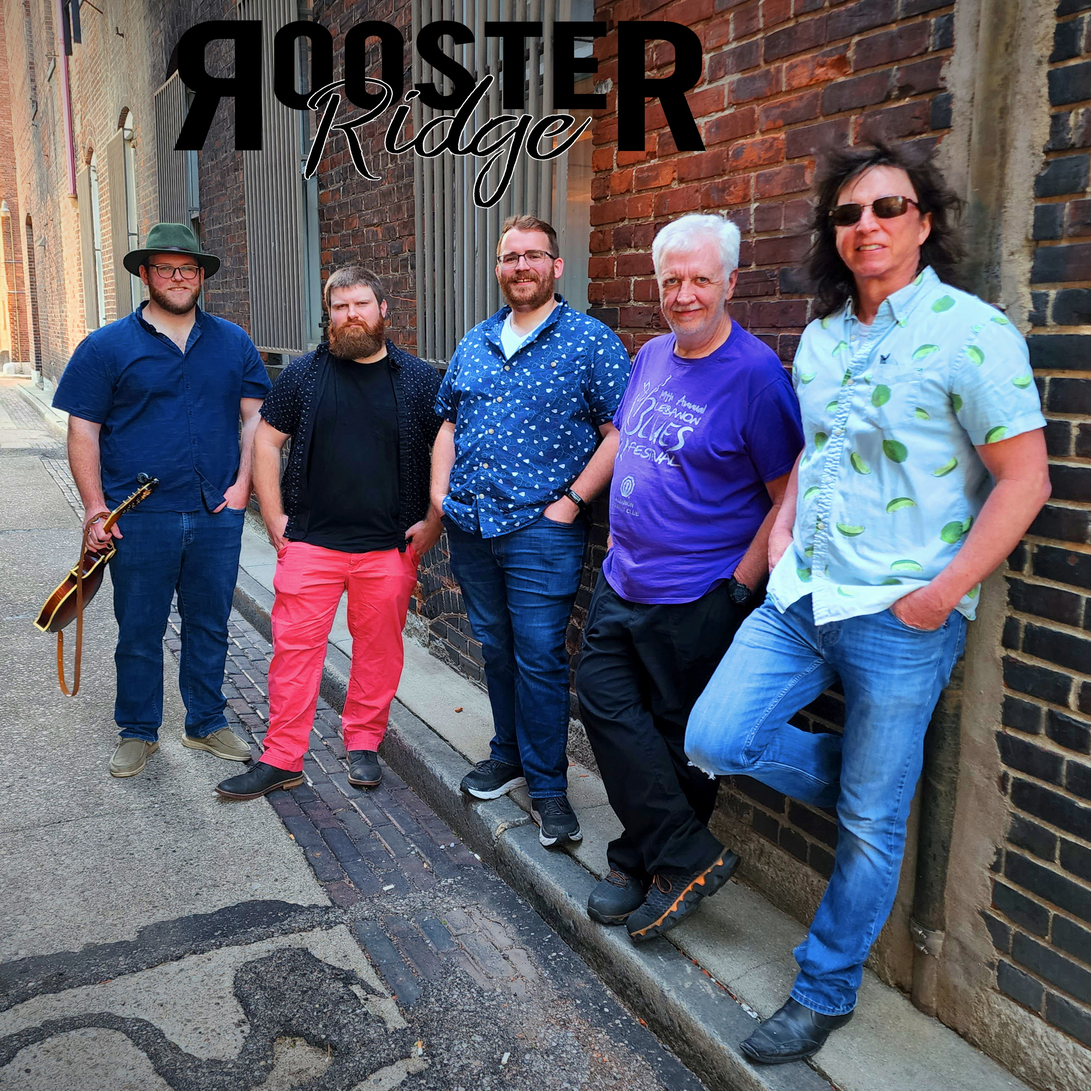
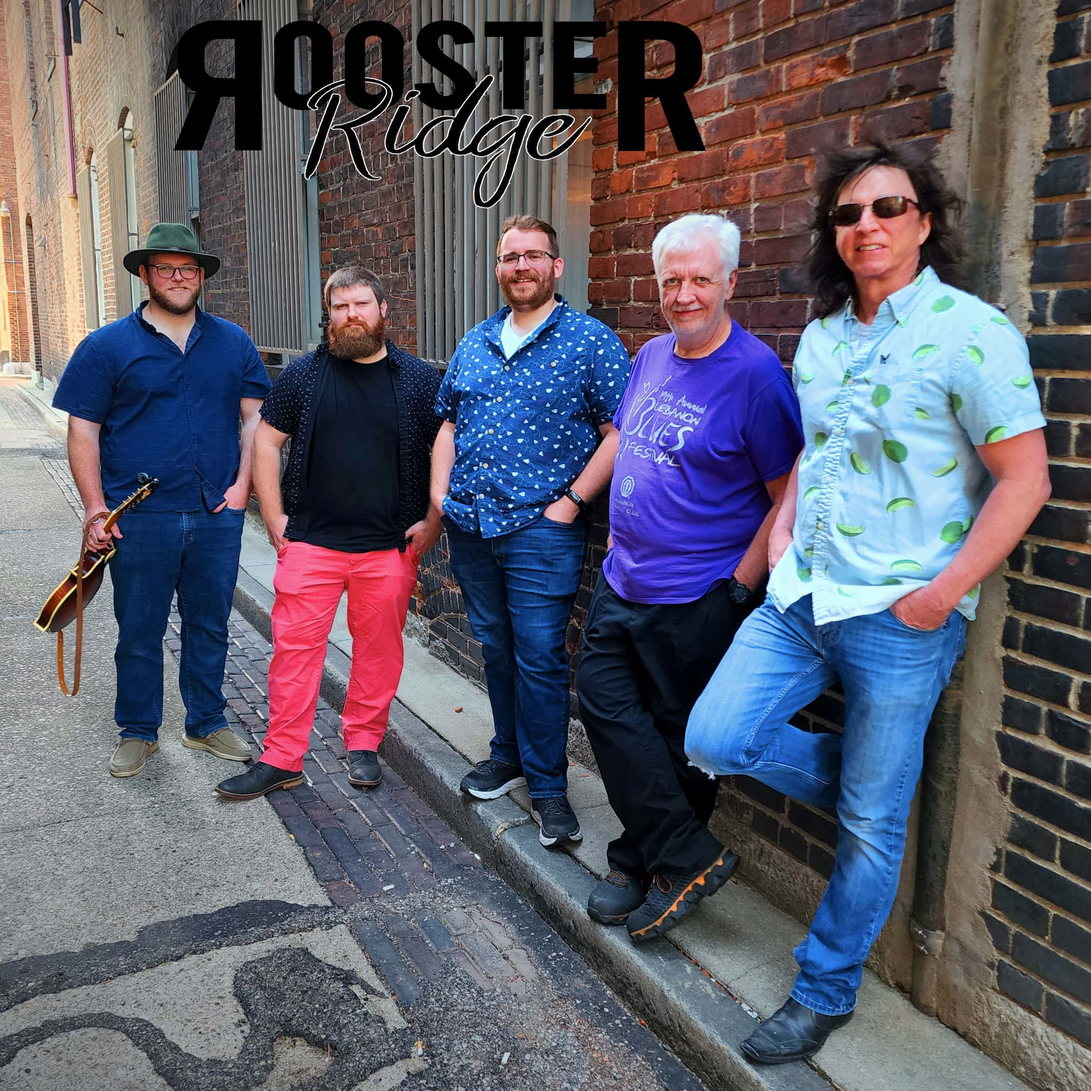
Added image compression and placeholder imgs

Changed region(s): [[0.4358, 0.1245, 0.4669, 0.1556]]

diff --git a/compress-images.js b/compress-images.js
@@ -1,20 +1,17 @@
 const compress_images = require("compress-images")
 
-const supported_input_folder = ["public/images"]
 
-
-supported_input_folder.forEach(dir => {
-    compress_images(`${dir}/**`, `${dir}/compressed/`, { compress_force: false, statistic: true, autoupdate: true }, false,
-        { jpg: { engine: "mozjpeg", command: ["-quality", "0"] } }, //https://github.com/mozilla/mozjpeg/blob/master/usage.txt
-        { png: { engine: "pngquant", command: ["--quality=0-10", "-o"] } },
-        { svg: { engine: "svgo", command: "--multipass" } },
-        { gif: { engine: "gifsicle", command: ["--colors", "64", "--use-col=web"] } },
-        function (error, completed, statistic) {
-            console.log("-------------");
-            console.log(error);
-            console.log(completed);
-            console.log(statistic);
-            console.log("-------------");
-        }
-    );
-});
+// Compress, keep quality
+compress_images(`images-temp/**`, `public/images/`, { compress_force: false, statistic: true, autoupdate: true }, false,
+    { jpg: { engine: "mozjpeg", command: ["-quality", "60"] } }, //https://github.com/mozilla/mozjpeg/blob/master/usage.txt
+    { png: { engine: "pngquant", command: ["--quality=20-50", "-o"] } },
+    { svg: { engine: "svgo", command: "--multipass" } },
+    { gif: { engine: "gifsicle", command: ["--colors", "64", "--use-col=web"] } },
+    function (error, completed, statistic) {
+        console.log("------Compress / Optimize Img-------");
+        console.log(error);
+        console.log(completed);
+        console.log(statistic);
+        console.log("-------------");
+    }
+);

diff --git a/src/components/RRImage.jsx b/src/components/RRImage.jsx
@@ -5,20 +5,20 @@ import ProgressiveImage from "react-progressive-graceful-image";
 
 export default function RRImage(props) {
 
-    const [src, setSource] = useState("")
+    const [imgSrc, setImgSrc] = useState("")
     const [placeholderSrc, setPlaceholderSrc] = useState("")
-    const [loading, setLoading] = useState(true)
+    const [sourcesLoading, setSourcesLoading] = useState(true)
 
     useEffect(() => {
-        setSource(props.src)
+        setImgSrc(props.src)
         setPlaceholderSrc(getPlaceholderSrc(props.src))
-        setLoading(false)
+        setSourcesLoading(false)
     }, [props.src])
 
     return (
         <>
-            {!loading && <ProgressiveImage
-                src={src}
+            {!sourcesLoading && <ProgressiveImage
+                src={imgSrc}
                 placeholder={placeholderSrc}
             >
                 {(src, loading) => <img {...props} src={src} alt={props.alt} style={{

diff --git a/create-placeholder-images.js b/create-placeholder-images.js
@@ -1,0 +1,16 @@
+const compress_images = require("compress-images")
+
+// Compress, create placeholder with low quality
+compress_images(`public/images/**`, `public/images/compressed/`, { compress_force: false, statistic: true, autoupdate: true }, false,
+    { jpg: { engine: "mozjpeg", command: ["-quality", "0"] } }, //https://github.com/mozilla/mozjpeg/blob/master/usage.txt
+    { png: { engine: "pngquant", command: ["--quality=0-10", "-o"] } },
+    { svg: { engine: "svgo", command: "--multipass" } },
+    { gif: { engine: "gifsicle", command: ["--colors", "64", "--use-col=web"] } },
+    function (error, completed, statistic) {
+        console.log("------Create Minified Placeholder for loading placeholder -------");
+        console.log(error);
+        console.log(completed);
+        console.log(statistic);
+        console.log("-------------");
+    }
+);
